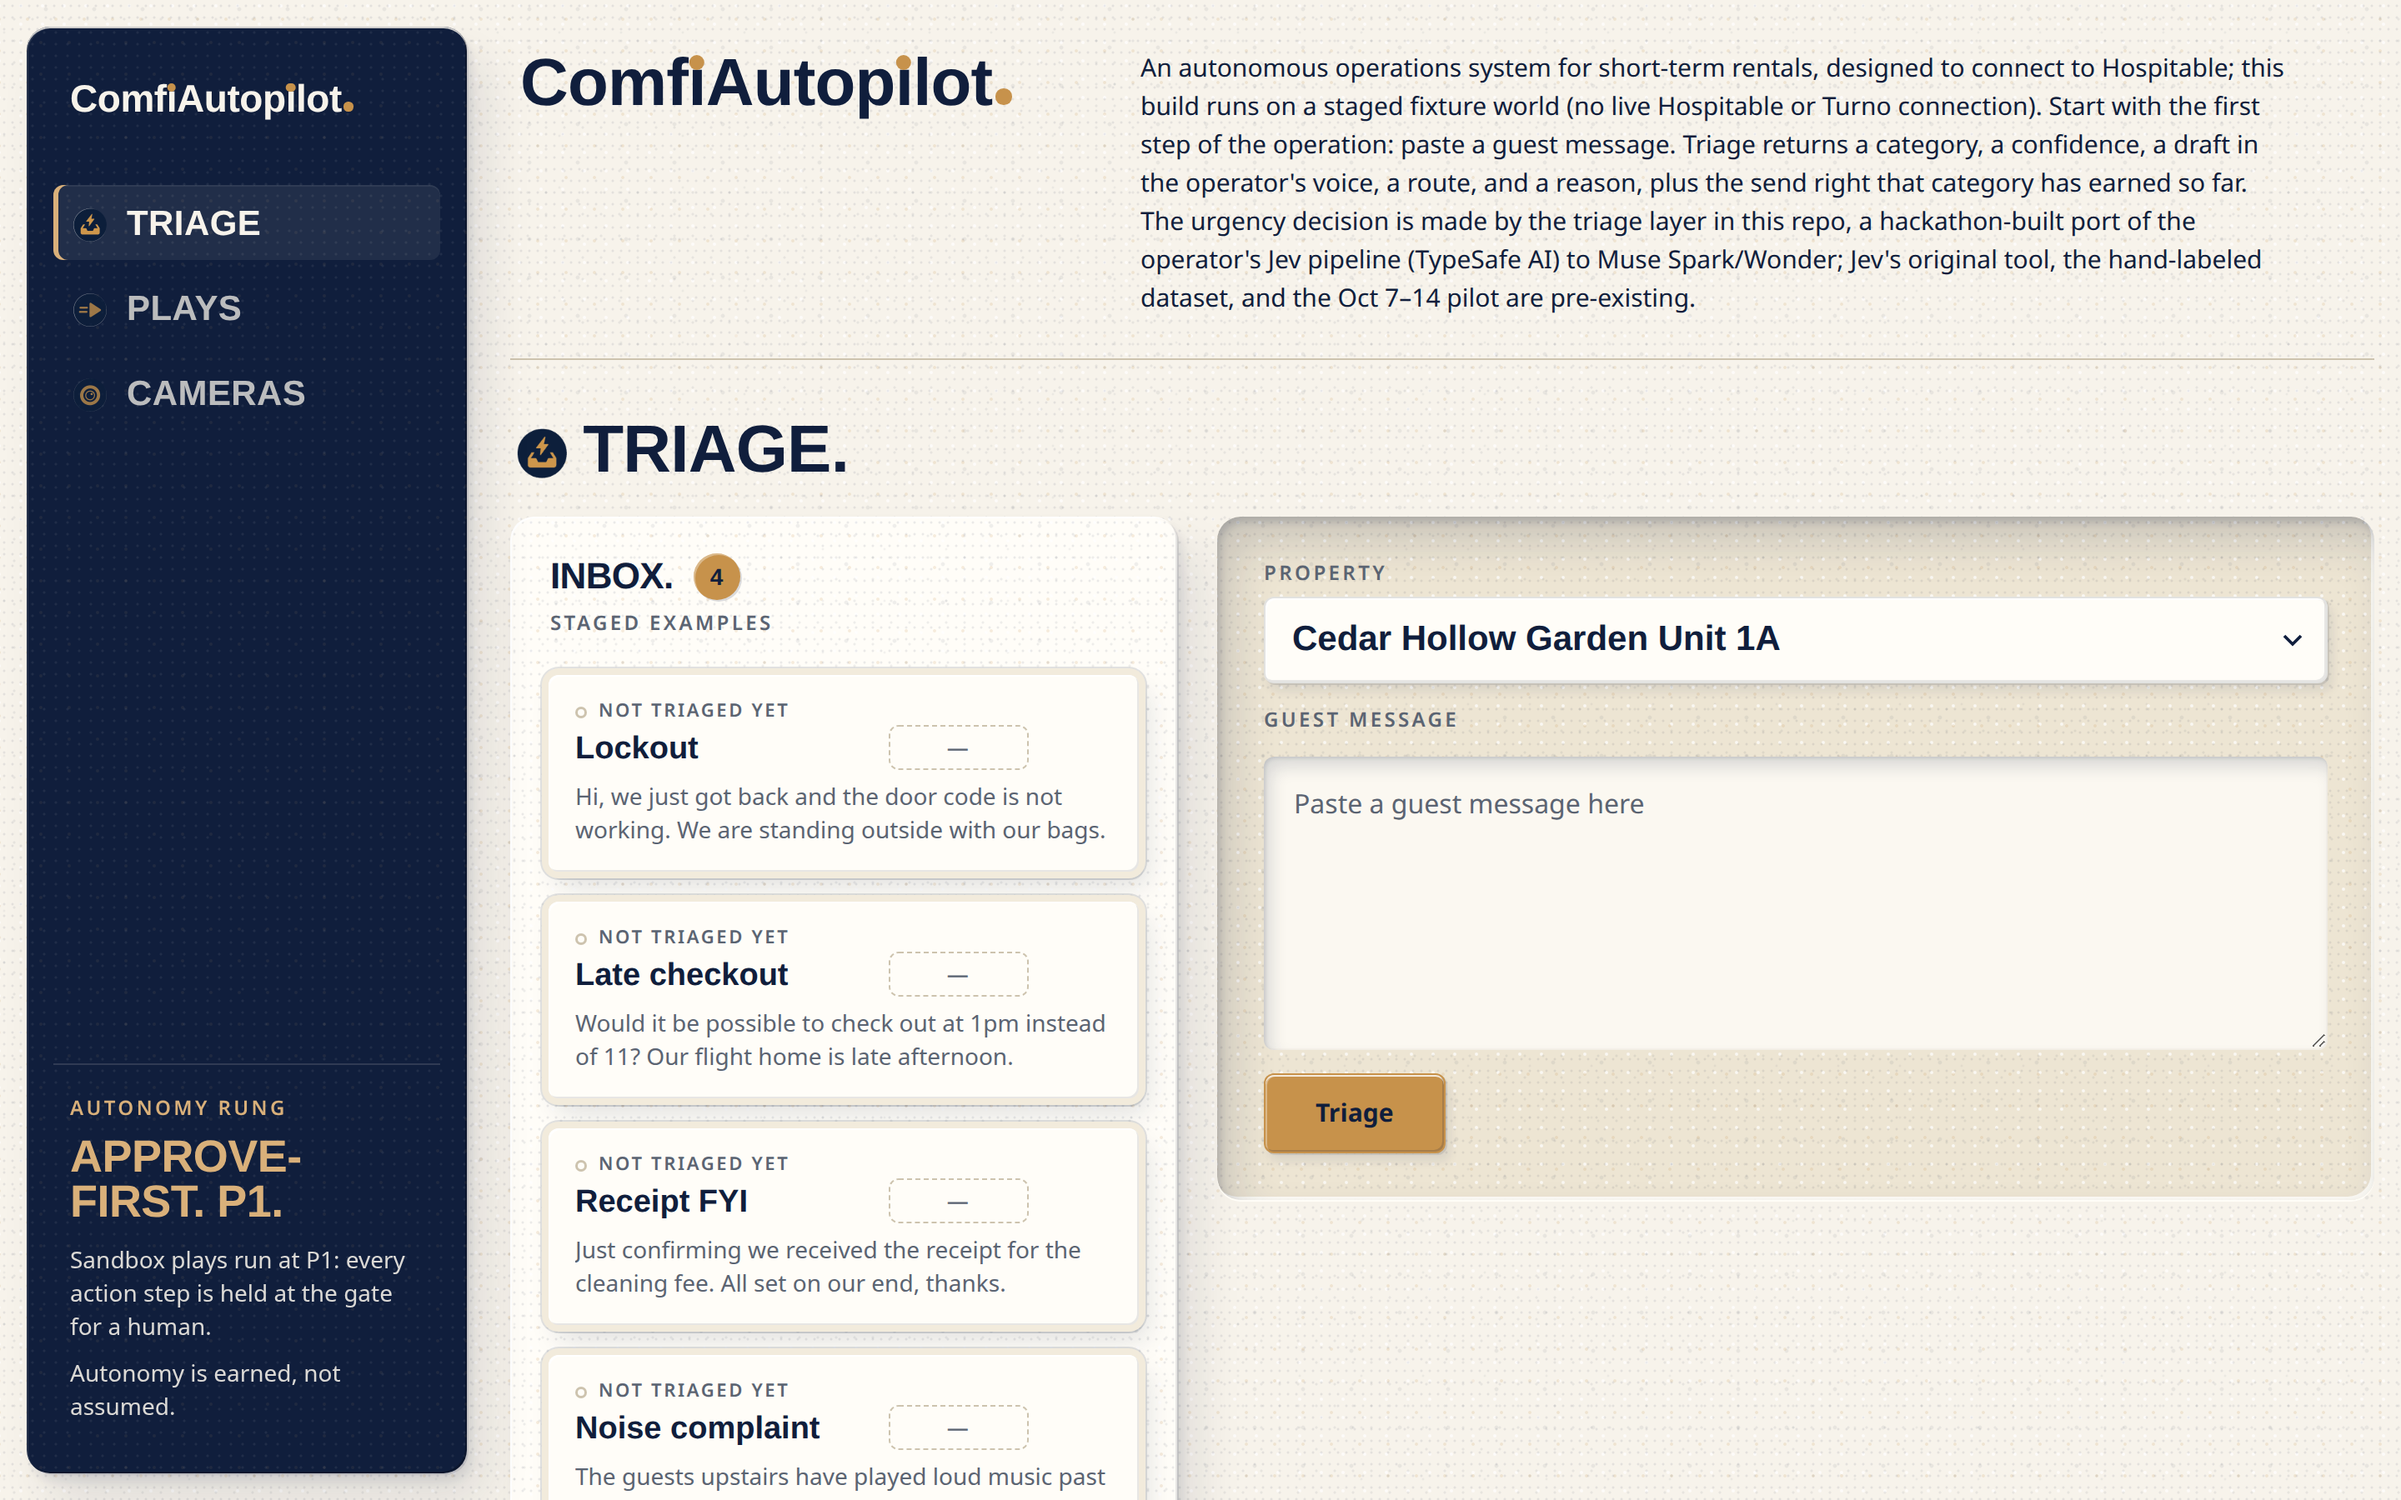
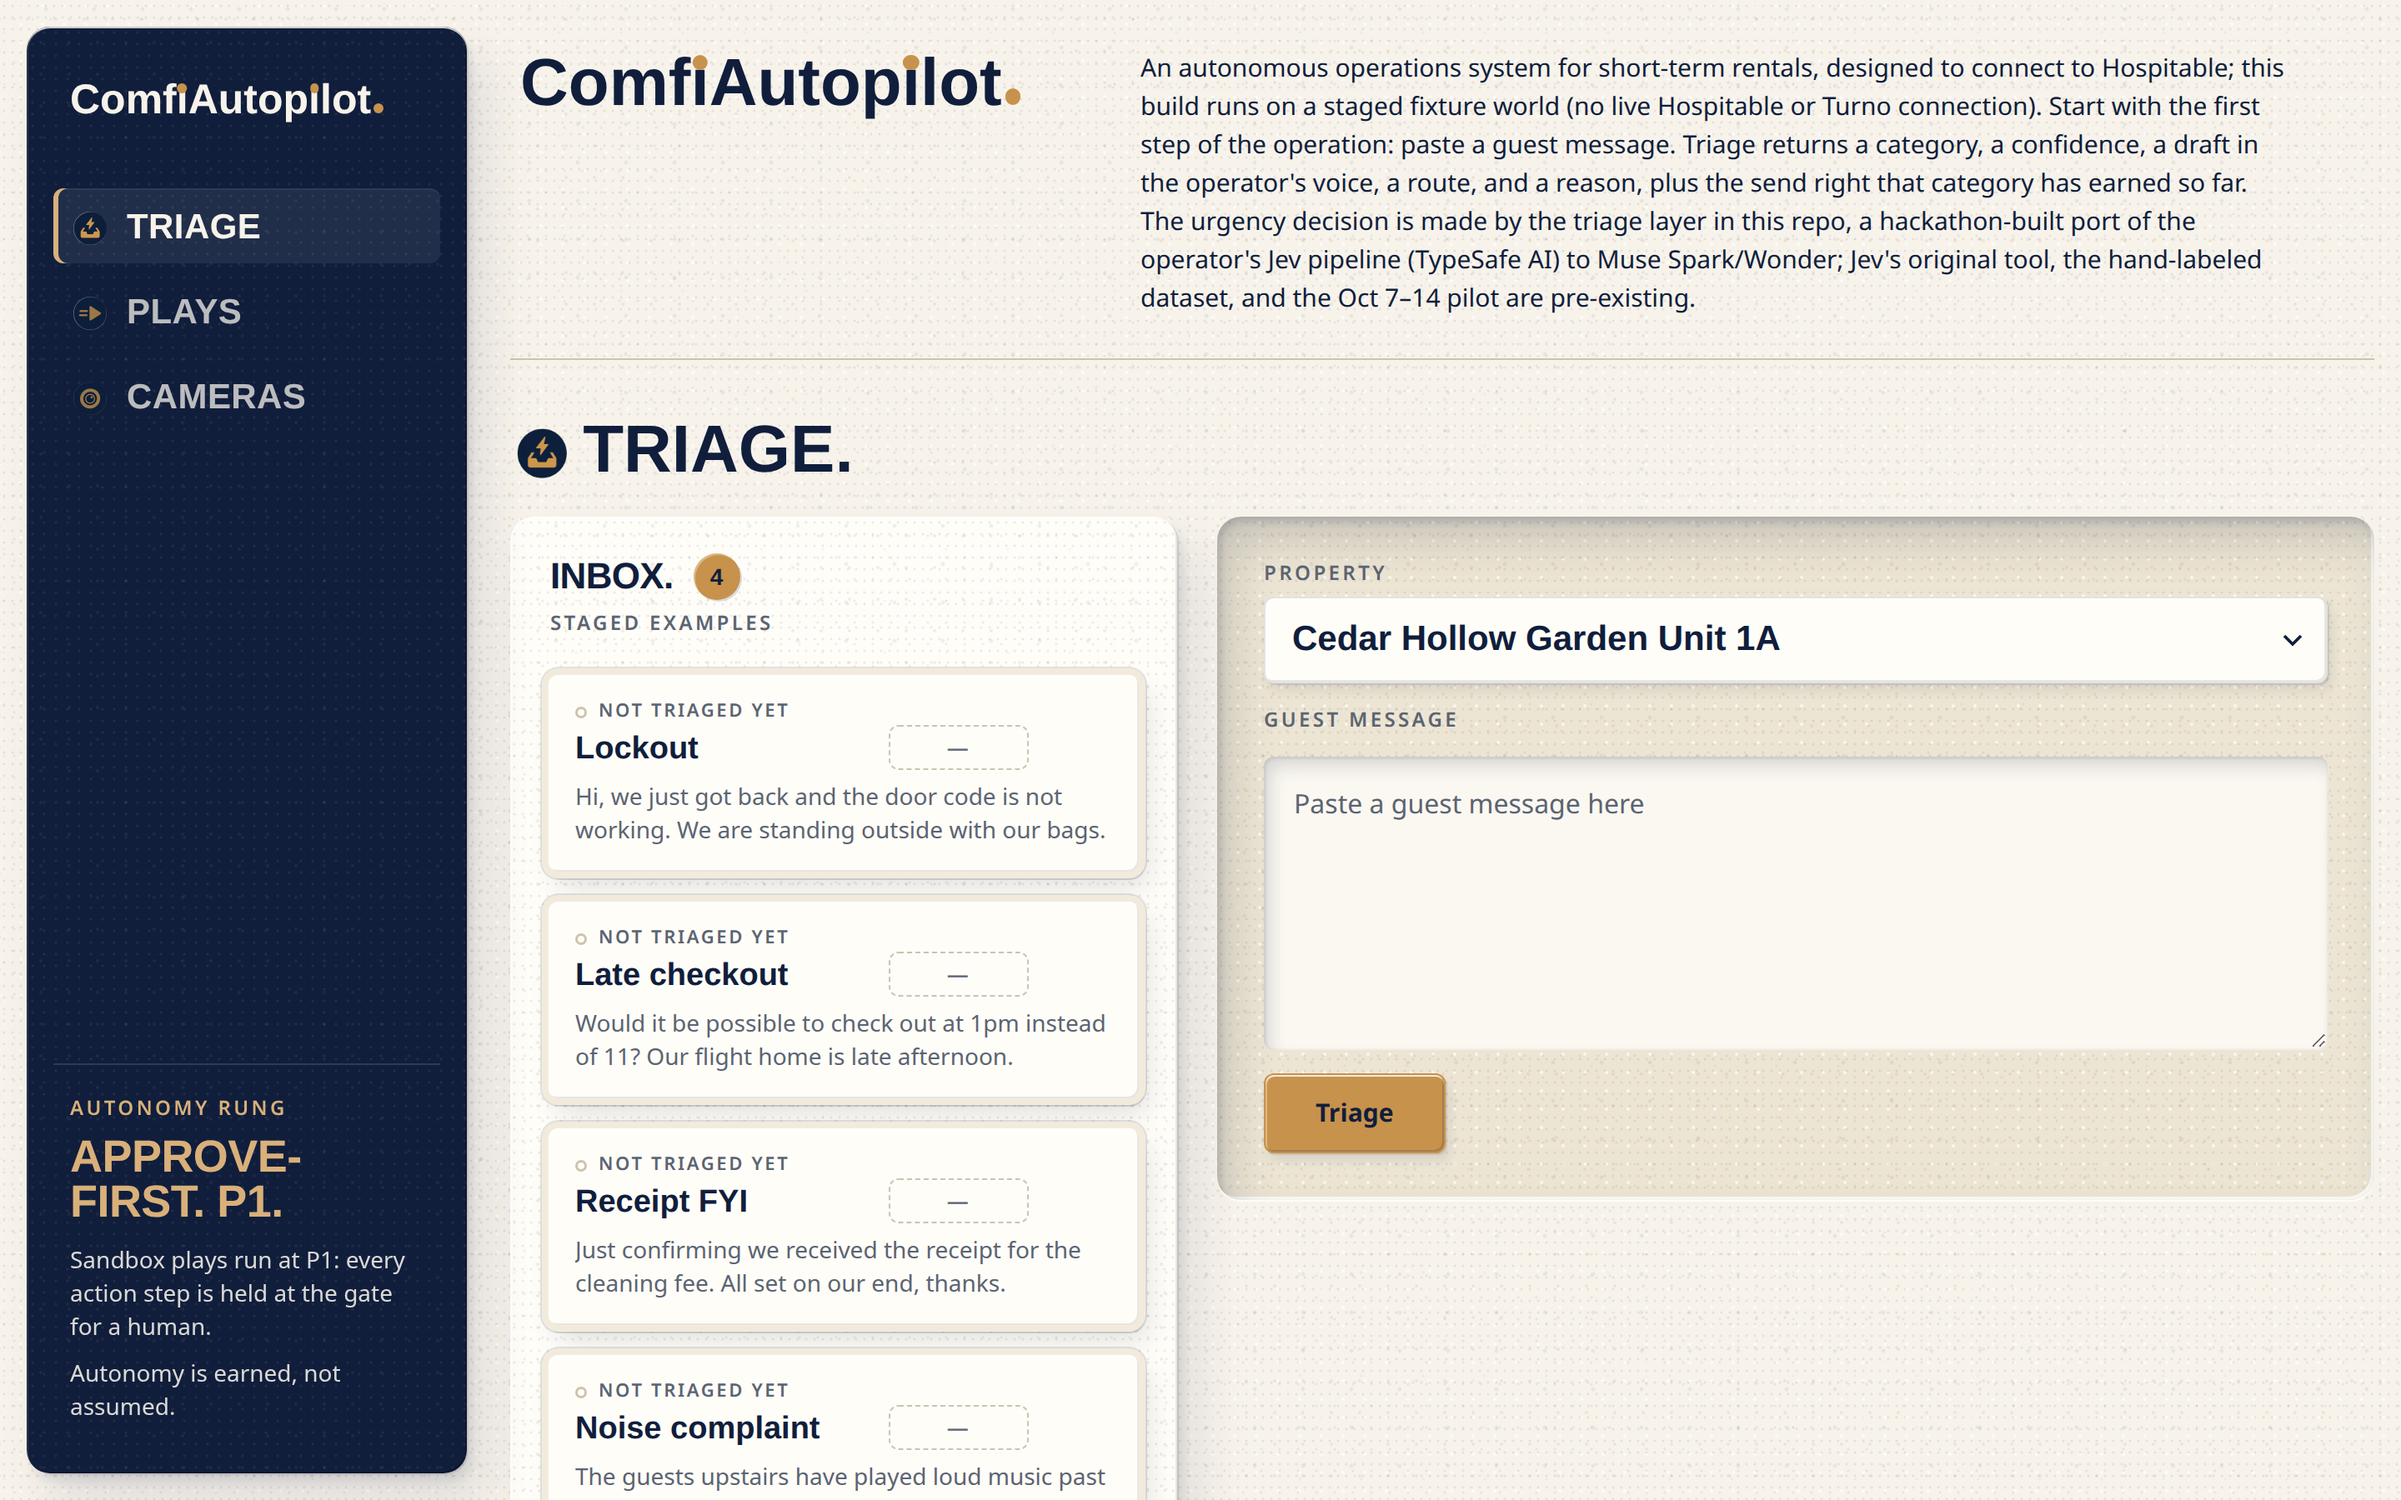
design: Franklin preview revised to sheet treatment
Gus flagged the first Franklin preview as not matching the sheet cell
he picked. Verified the family was applied (computed styles: Libre
Franklin throughout); the mismatch was treatment: the sheet set the
font at 900 everywhere at larger sizes, the preview used 800/23px.
Wordmark to 900/25px, masthead to 900, display tracking to 0,
P1 rung to 900. 285 tests passing.

diff --git a/sandbox/index.html b/sandbox/index.html
@@ -111,7 +111,7 @@
           box-shadow: inset 1px 1px 0 rgba(247,243,235,.10), inset -1px -1px 0 rgba(0,0,0,.25), var(--pressed); }
   .rail :focus-visible { outline-color: var(--cream); }
   .rail-top { display: grid; gap: 40px; }
-  .wordmark { padding: 0 10px; font: 800 23px/1 var(--font-display); letter-spacing: -.01em; white-space: nowrap; }
+  .wordmark { padding: 0 10px; font: 900 25px/1 var(--font-display); letter-spacing: 0; white-space: nowrap; }
   .wordmark .dot { display: inline-block; width: .24em; height: .24em; margin-left: .05em;
                    border-radius: var(--r-round); background: var(--amber); }
   /* wordmark lockup: dotless i stems with amber tittles (Gus, Oct 28) */
@@ -121,8 +121,8 @@
                 width: .23em; height: .23em; border-radius: var(--r-round); background: var(--amber); }
   .wm .dot { display: inline-block; width: .24em; height: .24em; margin-left: .05em;
              border-radius: var(--r-round); background: var(--amber); }
-  .masthead-mark { font-family: var(--font-display); font-weight: 800; line-height: 1;
-                   letter-spacing: -.01em; color: var(--ink); }
+  .masthead-mark { font-family: var(--font-display); font-weight: 900; line-height: 1;
+                   letter-spacing: 0; color: var(--ink); }
   .railnav { display: grid; gap: 6px; margin: 0; padding: 0; list-style: none; }
   .railnav a { display: flex; align-items: baseline; gap: 12px; padding: 13px 12px 11px; border-radius: var(--r-sm);
                color: var(--cream); text-decoration: none; opacity: .74;
@@ -142,7 +142,7 @@
                              box-shadow: inset 3px 0 0 var(--tan), inset 0 1px 0 rgba(247,243,235,.07); }
   .p1 { margin-top: auto; padding: 18px 10px 2px; border-top: 1px solid rgba(247,243,235,.14); }
   .p1 .cap { color: var(--tan); }
-  .p1-rung { display: block; margin: 8px 0 10px; font: 800 27px/1.02 var(--font-display);
+  .p1-rung { display: block; margin: 8px 0 10px; font: 900 27px/1.02 var(--font-display);
              letter-spacing: -.01em; text-transform: uppercase; color: var(--tan); }
   .p1 p { margin: 0 0 8px; font-size: var(--fs-small); line-height: 20px; opacity: .88; }
 
@@ -156,7 +156,7 @@
   .triage, .plays, .cams { display: grid; gap: 20px; min-width: 0; }
   .sec-head { display: flex; flex-wrap: wrap; align-items: baseline; justify-content: space-between;
               gap: 6px 24px; padding: 0 4px; }
-  .sec-title { font: 900 var(--fs-sec)/1 var(--font-display); letter-spacing: -.01em; }
+  .sec-title { font: 900 var(--fs-sec)/1 var(--font-display); letter-spacing: 0; }
   .sec-s { width: 30px; height: 30px; margin-right: .24em; vertical-align: -4px; }
   .sec-deck { margin: 0; color: var(--muted); font: 600 var(--fs-caption)/16px var(--font-text);
               letter-spacing: .14em; text-transform: uppercase; }
@@ -214,7 +214,7 @@
               padding: 22px 26px; border-radius: var(--r-sm); color: var(--cream);
               background-color: var(--navy); background-image: var(--grain-light); background-size: var(--grain-light-size);
               box-shadow: inset 1px 1px 0 rgba(247,243,235,.12), inset -1px -1px 0 rgba(0,0,0,.3), var(--pressed); }
-  #cat { font-size: 46px; line-height: 1; letter-spacing: -.01em; text-transform: uppercase; }
+  #cat { font-size: 46px; line-height: 1; letter-spacing: 0; text-transform: uppercase; }
   #cat .cat-word { display: inline-block; padding: 12px 20px 9px; border-radius: var(--r-sm);
                    box-shadow: inset 0 0 0 2px var(--cream); }
   #cat .cat-word::after { content: "."; }
@@ -229,7 +229,7 @@
   #conf { margin: 0 0 12px; }
   .conf-cap { display: block; font: 600 var(--fs-caption)/16px var(--font-text); letter-spacing: .14em;
               text-transform: uppercase; opacity: .85; }
-  .conf-num { display: block; margin-top: 4px; font: 900 46px/1 var(--font-display); letter-spacing: -.01em; color: var(--amber); }
+  .conf-num { display: block; margin-top: 4px; font: 900 46px/1 var(--font-display); letter-spacing: 0; color: var(--amber); }
   .bar { height: 8px; border-radius: var(--r-sm); background: rgba(247,243,235,.16); overflow: hidden;
          box-shadow: inset 1px 1px 2px rgba(0,0,0,.35); }
   .fill { height: 8px; border-radius: var(--r-sm); background: var(--amber); }
